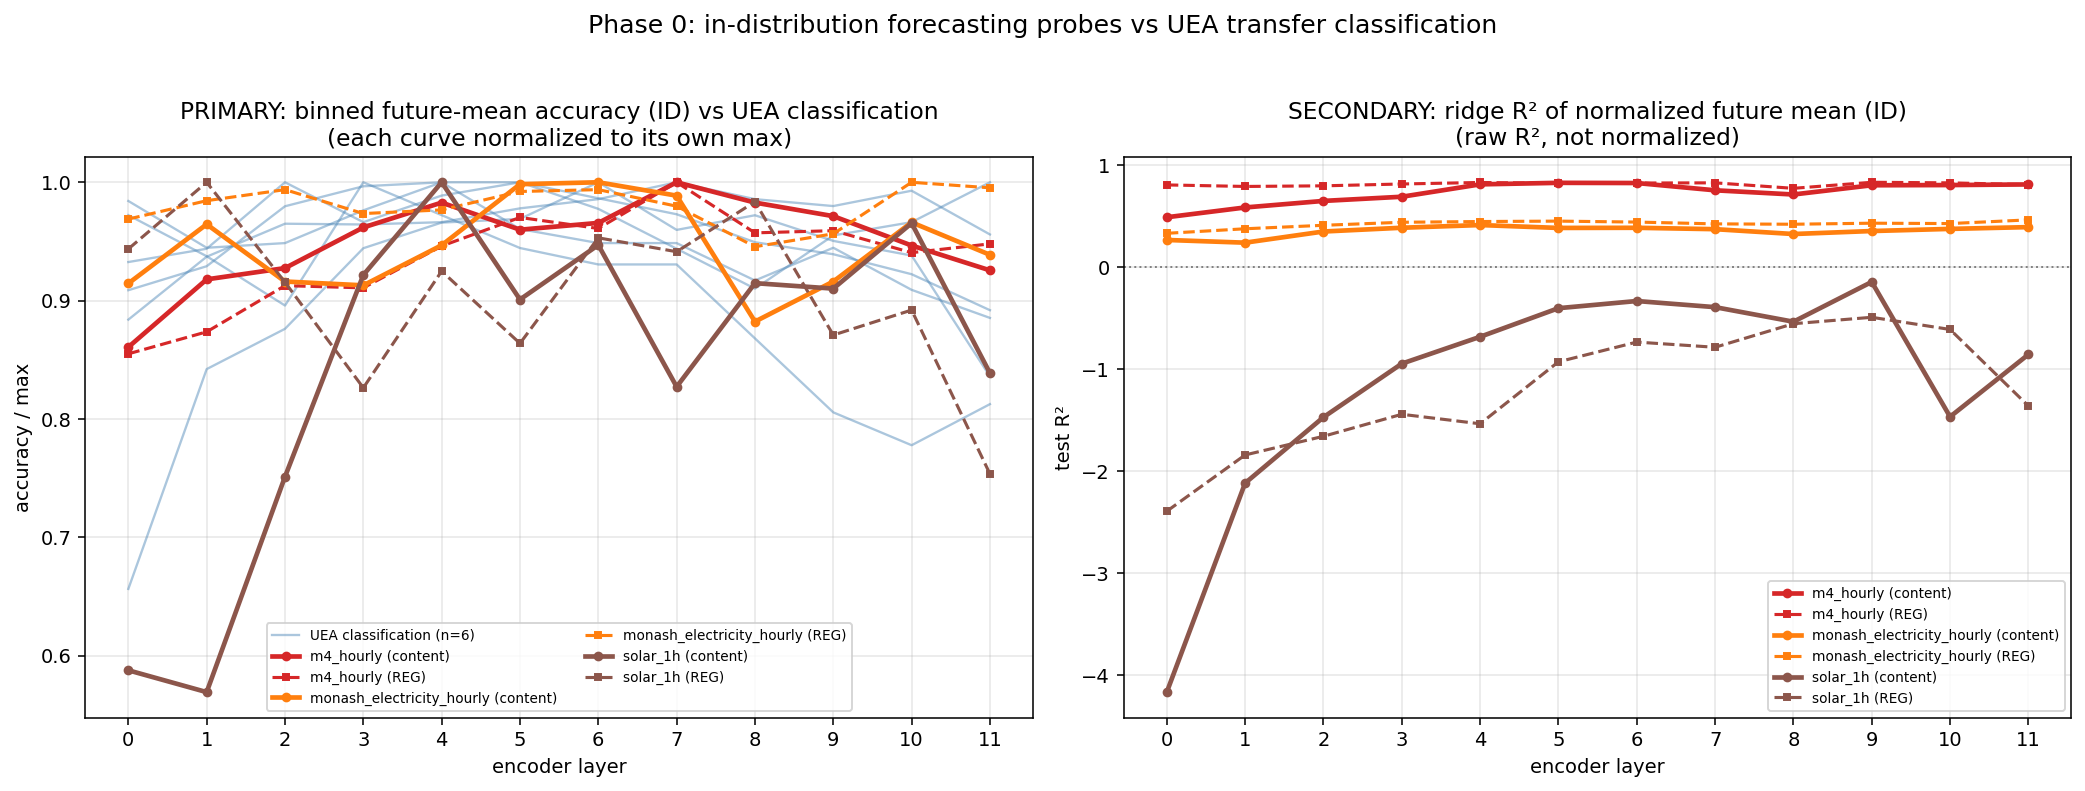
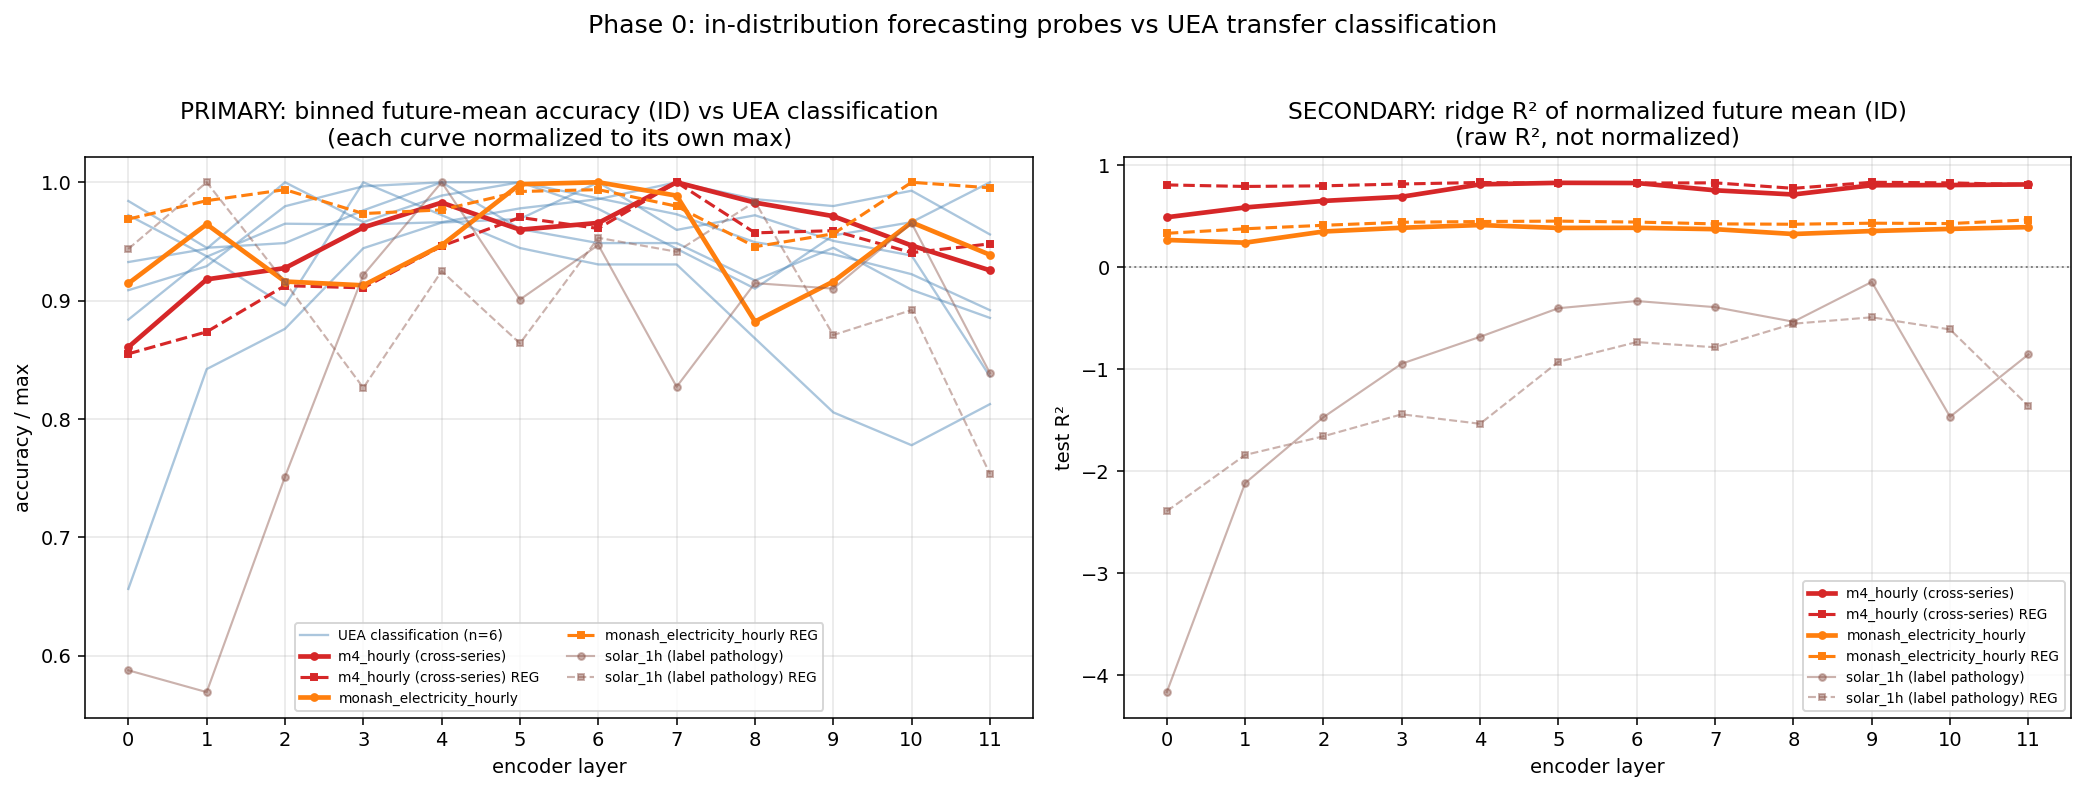
Overlay revisions: demote solar (label pathology), label M4 cross-series, dropoff fig, retention, TS-only overlay
Per review decisions:
- solar_1h demoted in overlays (thin/low-alpha, 'label pathology'); results kept, not deleted
- m4_hourly labeled '(cross-series)' in legend
- new results/id_vs_classification_dropoff.png: relative drop from each curve's own peak
- late_layer_retention (score[L11]/score[peak]) added to id_probing_summary.json + solar/m4 notes
- new results/id_vs_classification_overlay_tsonly.png: non-TS UEA modalities greyed (Task A fig)

diff --git a/experiments/run_id_forecasting.py b/experiments/run_id_forecasting.py
@@ -25,7 +25,7 @@ matplotlib.use("Agg")
 import matplotlib.pyplot as plt
 import numpy as np
 
-from probing.config import NUM_LAYERS, OUT_DIR, CACHE_DIR
+from probing.config import NUM_LAYERS, LAST_LAYER, OUT_DIR, CACHE_DIR
 from probing.id_data import ID_DATASETS, build_windows
 from probing.extraction import extract_window_features
 from probing.probes import ridge_regression_probe, binned_future_probe
@@ -35,6 +35,27 @@ POOLINGS = ("content", "reg")
 # UEA classification reference = the 6 non-saturated datasets used for Phase 0 conclusions.
 UEA_REF = ["UWaveGestureLibrary", "EthanolConcentration", "SelfRegulationSCP1",
            "Handwriting", "LSST", "SelfRegulationSCP2"]
+
+# UEA modality audit (see data/uea_domain_audit.md). Only genuine sensor/motion time-series
+# are retained for the TS-restricted overlay; the rest are other modalities re-encoded as
+# sequences (spectroscopy / EEG bio-signal / handwriting motion / astronomical light curves).
+UEA_TS_APPROPRIATE = {"UWaveGestureLibrary"}
+UEA_EXCLUDED_MODALITY = {
+    "EthanolConcentration": "spectroscopy (axis = wavelength, not time)",
+    "SelfRegulationSCP1": "EEG bio-signal",
+    "SelfRegulationSCP2": "EEG bio-signal",
+    "Handwriting": "handwriting / pen-trajectory motion",
+    "LSST": "astronomical light curves",
+}
+
+# per-ID-dataset plot styling. solar_1h is DEMOTED (thin/low-alpha) because its
+# context-normalized future-mean label is pathological on a strongly diurnal series
+# (see paper/phase0_fixes.md "Known limitation"). M4 is labeled cross-series.
+ID_STYLE = {
+    "m4_hourly":                 {"color": "#d62728", "demoted": False, "label": "m4_hourly (cross-series)"},
+    "monash_electricity_hourly": {"color": "#ff7f0e", "demoted": False, "label": "monash_electricity_hourly"},
+    "solar_1h":                  {"color": "#8c564b", "demoted": True,  "label": "solar_1h (label pathology)"},
+}
 
 
 def _bytes_per_split(n, pools=3):
@@ -79,6 +100,36 @@ def _norm_to_max(a):
     return a / m if m > 0 else a
 
 
+def _rel_dropoff(a):
+    """(score - peak) / peak per layer: 0 at the peak layer, negative afterwards (peak > 0)."""
+    a = np.asarray(a, float)
+    peak = a.max()
+    return (a - peak) / peak if peak > 0 else np.zeros_like(a)
+
+
+def _peak_retention(a):
+    """Return (peak_layer, peak_value, late_retention = score[L11] / peak)."""
+    a = np.asarray(a, float)
+    pk = int(a.argmax())
+    peak = float(a[pk])
+    ret = float(a[LAST_LAYER] / peak) if peak != 0 else float("nan")
+    return pk, peak, ret
+
+
+def _id_line(ax, tag, ys, pool, transform):
+    """Plot one ID curve with the tag's styling (solar demoted, content solid / REG dashed)."""
+    st = ID_STYLE[tag]
+    if st["demoted"]:
+        lw, alpha = 1.1, 0.45
+    else:
+        lw, alpha = (2.4 if pool == "content" else 1.6), 1.0
+    ls = "-" if pool == "content" else "--"
+    mk = "o" if pool == "content" else "s"
+    lab = st["label"] + ("" if pool == "content" else " REG")
+    ax.plot(np.arange(NUM_LAYERS), transform(ys), color=st["color"], lw=lw, alpha=alpha,
+            ls=ls, marker=mk, ms=3.5, label=lab)
+
+
 def make_overlay(id_results, uea_curves):
     xs = np.arange(NUM_LAYERS)
     fig, (axA, axB) = plt.subplots(1, 2, figsize=(15, 5.5))
@@ -87,13 +138,9 @@ def make_overlay(id_results, uea_curves):
     for j, (name, acc) in enumerate(uea_curves.items()):
         axA.plot(xs, _norm_to_max(acc), color="steelblue", alpha=0.45, lw=1.2,
                  label="UEA classification (n=6)" if j == 0 else None)
-    warm = ["#d62728", "#ff7f0e", "#8c564b"]  # 3 ID datasets
-    for k, (tag, res) in enumerate(id_results.items()):
-        c = warm[k % len(warm)]
-        axA.plot(xs, _norm_to_max(res["poolings"]["content"]["binned_accuracy"]),
-                 color=c, lw=2.4, marker="o", ms=4, label=f"{tag} (content)")
-        axA.plot(xs, _norm_to_max(res["poolings"]["reg"]["binned_accuracy"]),
-                 color=c, lw=1.6, ls="--", marker="s", ms=3, label=f"{tag} (REG)")
+    for tag, res in id_results.items():
+        _id_line(axA, tag, res["poolings"]["content"]["binned_accuracy"], "content", _norm_to_max)
+        _id_line(axA, tag, res["poolings"]["reg"]["binned_accuracy"], "reg", _norm_to_max)
     axA.set_title("PRIMARY: binned future-mean accuracy (ID) vs UEA classification\n"
                   "(each curve normalized to its own max)")
     axA.set_xlabel("encoder layer"); axA.set_ylabel("accuracy / max"); axA.set_xticks(xs)
@@ -101,12 +148,9 @@ def make_overlay(id_results, uea_curves):
 
     # ---- Panel B: secondary — ridge R^2 (raw; normalizing possibly-negative R^2 is misleading) ----
     axB.axhline(0.0, color="gray", ls=":", lw=1)
-    for k, (tag, res) in enumerate(id_results.items()):
-        c = warm[k % len(warm)]
-        axB.plot(xs, res["poolings"]["content"]["ridge_r2"], color=c, lw=2.4, marker="o", ms=4,
-                 label=f"{tag} (content)")
-        axB.plot(xs, res["poolings"]["reg"]["ridge_r2"], color=c, lw=1.6, ls="--", marker="s", ms=3,
-                 label=f"{tag} (REG)")
+    for tag, res in id_results.items():
+        _id_line(axB, tag, res["poolings"]["content"]["ridge_r2"], "content", lambda a: np.asarray(a, float))
+        _id_line(axB, tag, res["poolings"]["reg"]["ridge_r2"], "reg", lambda a: np.asarray(a, float))
     axB.set_title("SECONDARY: ridge R² of normalized future mean (ID)\n(raw R², not normalized)")
     axB.set_xlabel("encoder layer"); axB.set_ylabel("test R²"); axB.set_xticks(xs)
     axB.grid(alpha=0.3); axB.legend(fontsize=7, loc="best")
@@ -118,6 +162,71 @@ def make_overlay(id_results, uea_curves):
     fig.savefig(out, dpi=140, bbox_inches="tight")
     plt.close(fig)
     print(f"\n  [saved] {out}")
+
+
+def make_tsonly(id_results, uea_curves):
+    """Same as the primary overlay, but UEA classification curves from non-TS modalities are
+    greyed out (excluded per the domain-restriction fix); genuine sensor-TS ones stay colored.
+    Written to a SEPARATE file — the original overlay is left unchanged."""
+    xs = np.arange(NUM_LAYERS)
+    fig, (axA, axB) = plt.subplots(1, 2, figsize=(15, 5.5))
+
+    kept_lab_used = excl_lab_used = False
+    for name, acc in uea_curves.items():
+        if name in UEA_TS_APPROPRIATE:
+            axA.plot(xs, _norm_to_max(acc), color="steelblue", alpha=0.9, lw=1.8,
+                     label=f"UEA TS-appropriate: {name}" if not kept_lab_used else None)
+            kept_lab_used = True
+        else:
+            axA.plot(xs, _norm_to_max(acc), color="0.6", alpha=0.35, lw=1.0,
+                     label="UEA excluded modality (n=5)" if not excl_lab_used else None)
+            excl_lab_used = True
+    for tag, res in id_results.items():
+        _id_line(axA, tag, res["poolings"]["content"]["binned_accuracy"], "content", _norm_to_max)
+        _id_line(axA, tag, res["poolings"]["reg"]["binned_accuracy"], "reg", _norm_to_max)
+    axA.set_title("TS-RESTRICTED: binned future-mean accuracy (ID) vs UEA classification\n"
+                  "(non-TS modalities greyed; each curve normalized to its own max)")
+    axA.set_xlabel("encoder layer"); axA.set_ylabel("accuracy / max"); axA.set_xticks(xs)
+    axA.grid(alpha=0.3); axA.legend(fontsize=7, ncol=2, loc="lower center")
+
+    axB.axhline(0.0, color="gray", ls=":", lw=1)
+    for tag, res in id_results.items():
+        _id_line(axB, tag, res["poolings"]["content"]["ridge_r2"], "content", lambda a: np.asarray(a, float))
+        _id_line(axB, tag, res["poolings"]["reg"]["ridge_r2"], "reg", lambda a: np.asarray(a, float))
+    axB.set_title("SECONDARY: ridge R² of normalized future mean (ID)\n(raw R², not normalized)")
+    axB.set_xlabel("encoder layer"); axB.set_ylabel("test R²"); axB.set_xticks(xs)
+    axB.grid(alpha=0.3); axB.legend(fontsize=7, loc="best")
+
+    fig.suptitle("Phase 0 (TS-restricted): conclusions drawn only from genuine-TS UEA datasets",
+                 fontsize=13, y=1.02)
+    fig.tight_layout()
+    out = OUT_DIR / "id_vs_classification_overlay_tsonly.png"
+    fig.savefig(out, dpi=140, bbox_inches="tight")
+    plt.close(fig)
+    print(f"  [saved] {out}")
+
+
+def make_dropoff(id_results, uea_curves):
+    """Relative drop from each curve's own peak: makes the late-layer LOSS readable
+    (the normalize-to-max overlay compresses this away). Accuracy-scale curves only."""
+    xs = np.arange(NUM_LAYERS)
+    fig, ax = plt.subplots(figsize=(9, 5.5))
+    for j, (name, acc) in enumerate(uea_curves.items()):
+        ax.plot(xs, _rel_dropoff(acc), color="steelblue", alpha=0.45, lw=1.2,
+                label="UEA classification (n=6)" if j == 0 else None)
+    for tag, res in id_results.items():
+        _id_line(ax, tag, res["poolings"]["content"]["binned_accuracy"], "content", _rel_dropoff)
+        _id_line(ax, tag, res["poolings"]["reg"]["binned_accuracy"], "reg", _rel_dropoff)
+    ax.axhline(0.0, color="gray", ls=":", lw=1)
+    ax.set_title("Relative drop from peak, per layer:  (acc_layer - acc_peak) / acc_peak\n"
+                 "(0 at each curve's own peak; more negative = larger post-peak loss)")
+    ax.set_xlabel("encoder layer"); ax.set_ylabel("relative drop from peak"); ax.set_xticks(xs)
+    ax.grid(alpha=0.3); ax.legend(fontsize=7, ncol=2, loc="lower left")
+    fig.tight_layout()
+    out = OUT_DIR / "id_vs_classification_dropoff.png"
+    fig.savefig(out, dpi=140, bbox_inches="tight")
+    plt.close(fig)
+    print(f"  [saved] {out}")
 
 
 def main():
@@ -135,18 +244,43 @@ def main():
     print(f"\n  est. new IDF_ cache footprint: ~{total_bytes/1e9:.2f} GB "
           f"(3 poolings x 12 layers x n_windows x 768 x 4B)")
 
+    # ---- late-layer retention = score[L11] / score[peak] (the quantity the tunnel
+    #      comparison needs — how much each curve keeps after its own peak) ----
+    retention = {"id": {}, "uea_classification": {}}
+    for tag, res in id_results.items():
+        retention["id"][tag] = {}
+        for pool in POOLINGS:
+            ent = {}
+            for metric in ("binned_accuracy", "ridge_r2"):
+                pk, peak, ret = _peak_retention(res["poolings"][pool][metric])
+                ent[metric] = {"peak_layer": pk, "peak_value": peak, "retention_L11": ret}
+            retention["id"][tag][pool] = ent
+    for name, acc in uea_curves.items():
+        pk, peak, ret = _peak_retention(acc)
+        retention["uea_classification"][name] = {"peak_layer": pk, "peak_value": peak,
+                                                 "retention_L11": ret}
+
     summary = {
         "config": {"C": 512, "H": 64, "n_bins": N_BINS, "poolings": list(POOLINGS),
                    "id_datasets": list(ID_DATASETS), "uea_reference": UEA_REF,
-                   "binned_chance": 1.0 / N_BINS},
+                   "binned_chance": 1.0 / N_BINS,
+                   "solar_note": "solar_1h ridge R^2 is pathological (context-normalized "
+                                 "future-mean label fails on strongly diurnal series); demoted "
+                                 "in the overlay. See paper/phase0_fixes.md.",
+                   "m4_note": "m4_hourly uses a cross-series split (series too short for a "
+                              "within-series train/test span at C=512/H=64); comparable in "
+                              "shape, not absolute level."},
         "id_datasets": id_results,
         "uea_classification_reference": {name: uea_curves[name] for name in UEA_REF},
+        "late_layer_retention": retention,
     }
     with open(OUT_DIR / "id_probing_summary.json", "w") as f:
         json.dump(summary, f, indent=2)
     print(f"  [saved] {OUT_DIR / 'id_probing_summary.json'}")
 
     make_overlay(id_results, uea_curves)
+    make_tsonly(id_results, uea_curves)
+    make_dropoff(id_results, uea_curves)
 
     # ---- concise report (no interpretation) ----
     print(f"\n{'='*70}\nID PROBING SUMMARY (no interpretation)\n{'='*70}")
@@ -158,7 +292,12 @@ def main():
         print(f"{tag:>26} {m['split_mode']:>13} {m['n_train']:>6} {m['n_test']:>6}  "
               f"{'L'+str(int(acc.argmax()))+'='+format(acc.max(),'.3f'):>28}  "
               f"{'['+format(r2.min(),'+.3f')+','+format(r2.max(),'+.3f')+']':>26}")
-    print(f"\n  binned chance = {1/N_BINS:.2f}   |   PAUSE: review the overlay before any interpretation.")
+    # late-layer retention table (binned accuracy, content) — the tunnel-relevant number
+    print(f"\n  late-layer retention = binned_acc[L11] / binned_acc[peak]  (content pooling):")
+    for tag, r in id_results.items():
+        pk, peak, ret = _peak_retention(r["poolings"]["content"]["binned_accuracy"])
+        print(f"    {tag:>26}:  peak L{pk}={peak:.3f}  ->  L11 retains {ret:.3f}")
+    print(f"\n  binned chance = {1/N_BINS:.2f}")
 
 
 if __name__ == "__main__":
